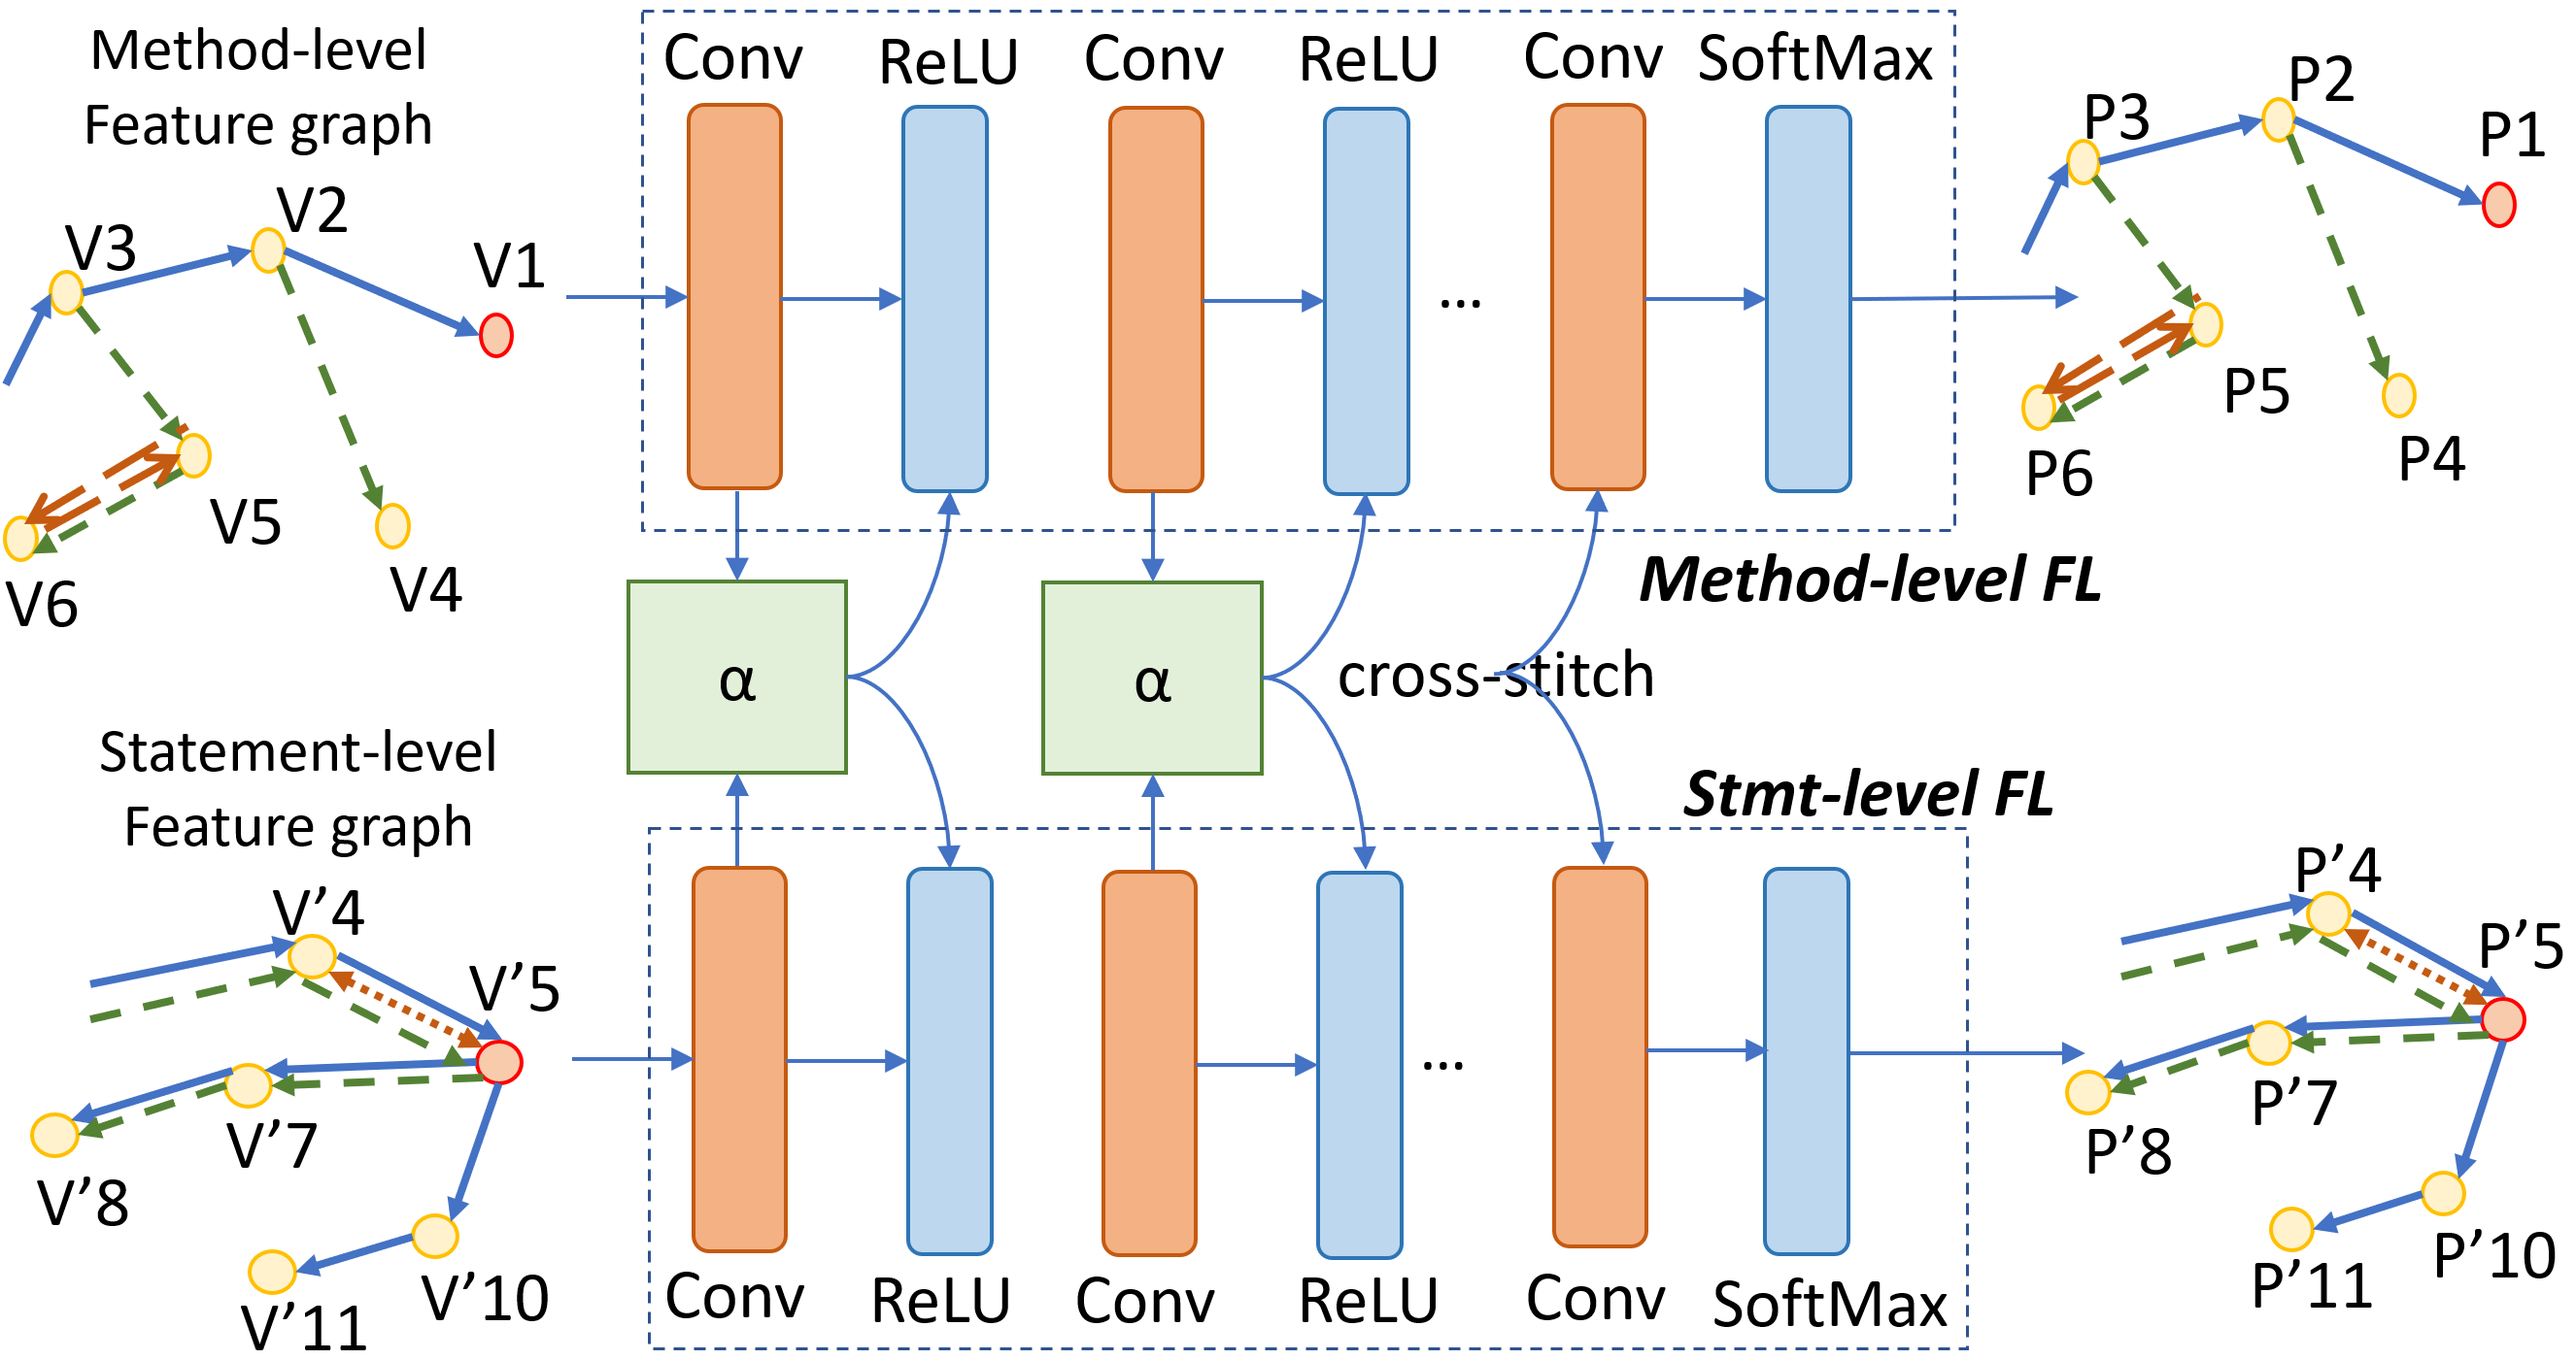
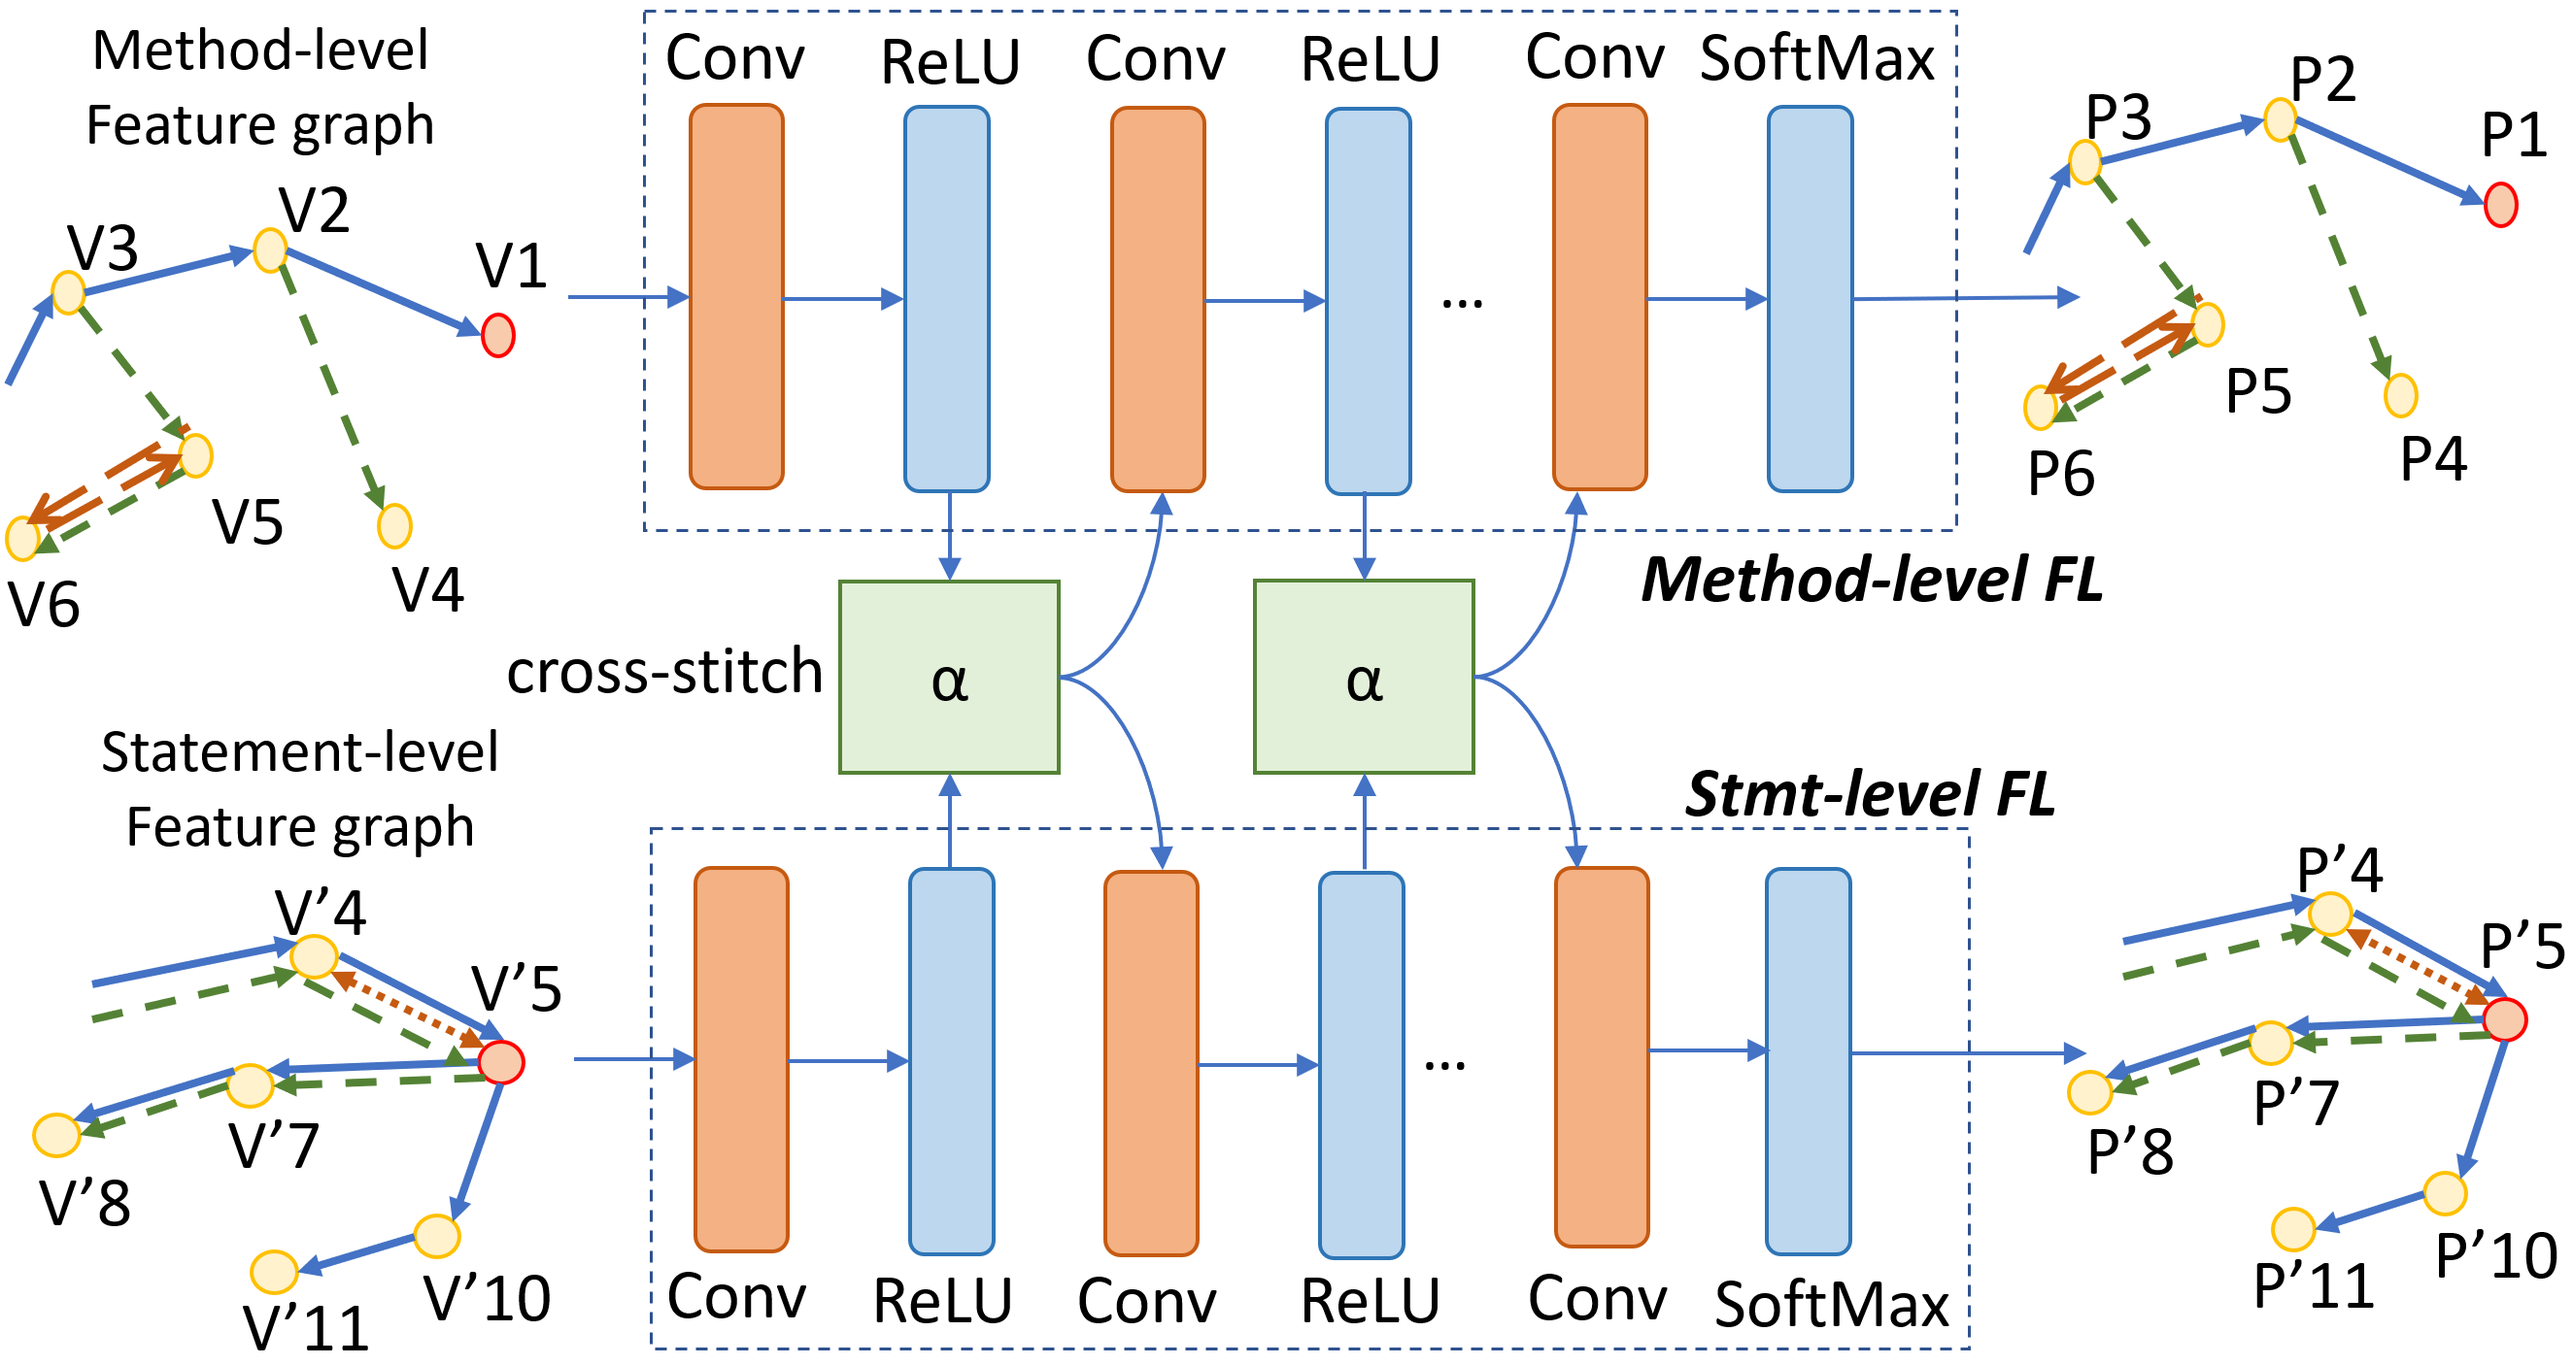
figures for step 3

diff --git a/sections/approach_step3.tex b/sections/approach_step3.tex
@@ -7,6 +7,13 @@
 	\label{dual-learning}
 \end{figure}
 
+\begin{figure}[t]
+	\centering
+	\includegraphics[width=2in]{graphs/cross-stitch.png}
+	\caption{Dual Learning via Cross-stitch Unit}
+	\label{dual-learning}
+\end{figure}
+
 
 After having the vectorized graph $G_m$ and $G_s$ for both the method-level and the statement-level features, 
 
